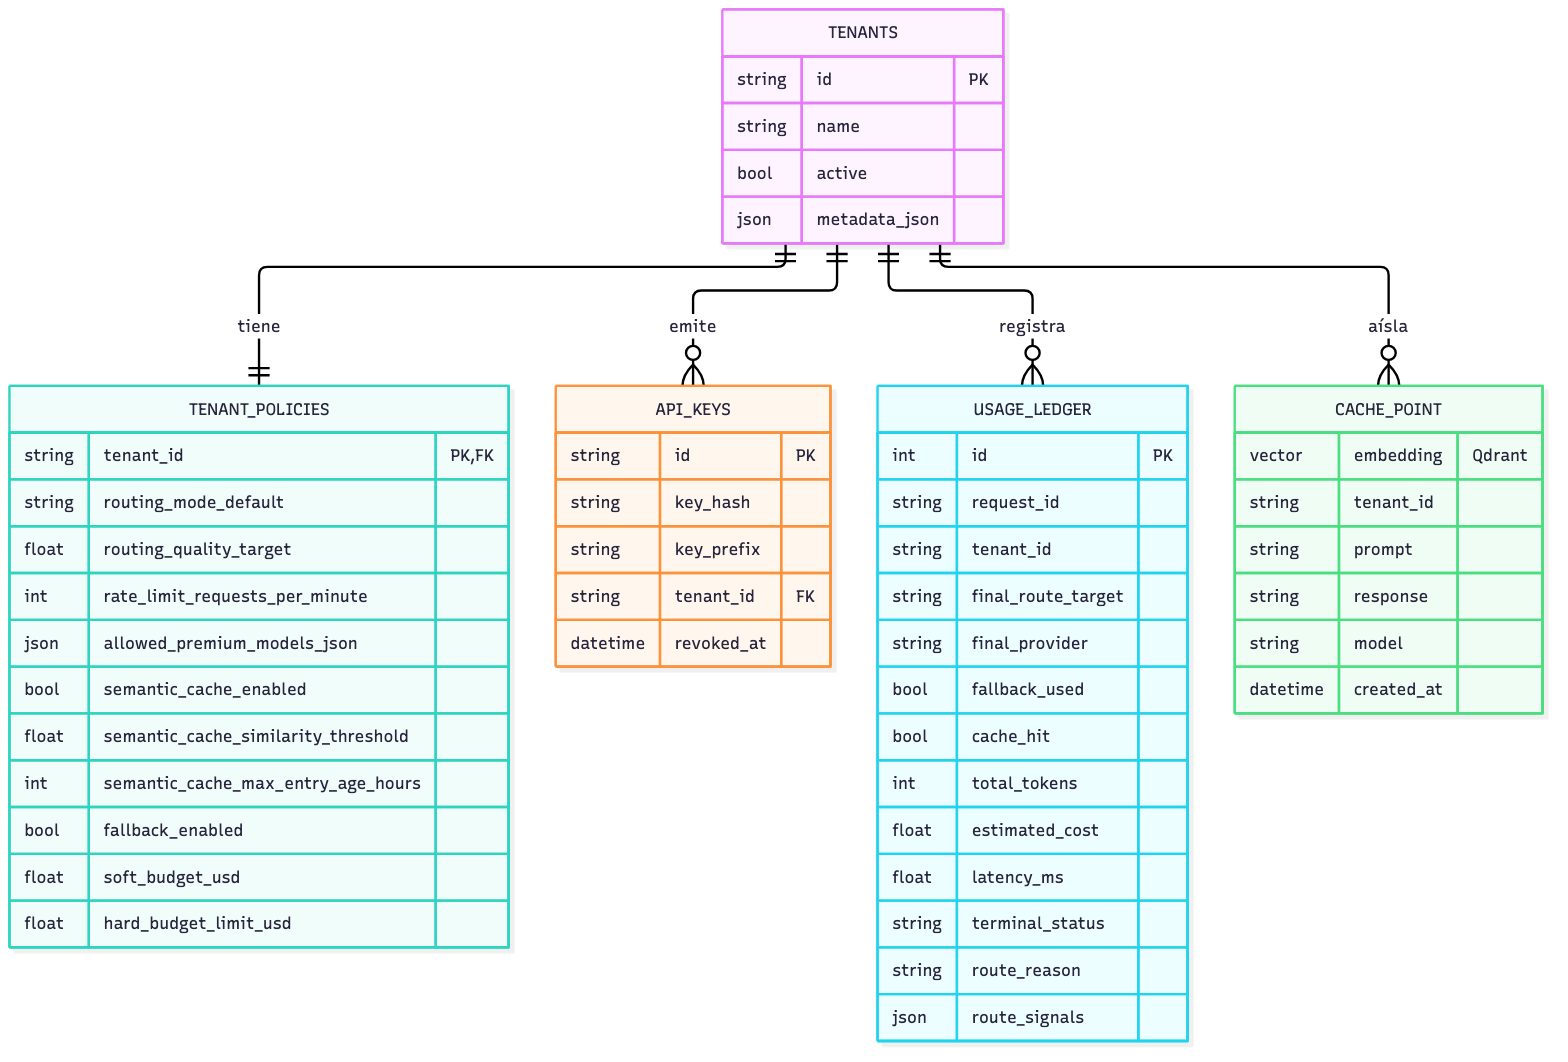
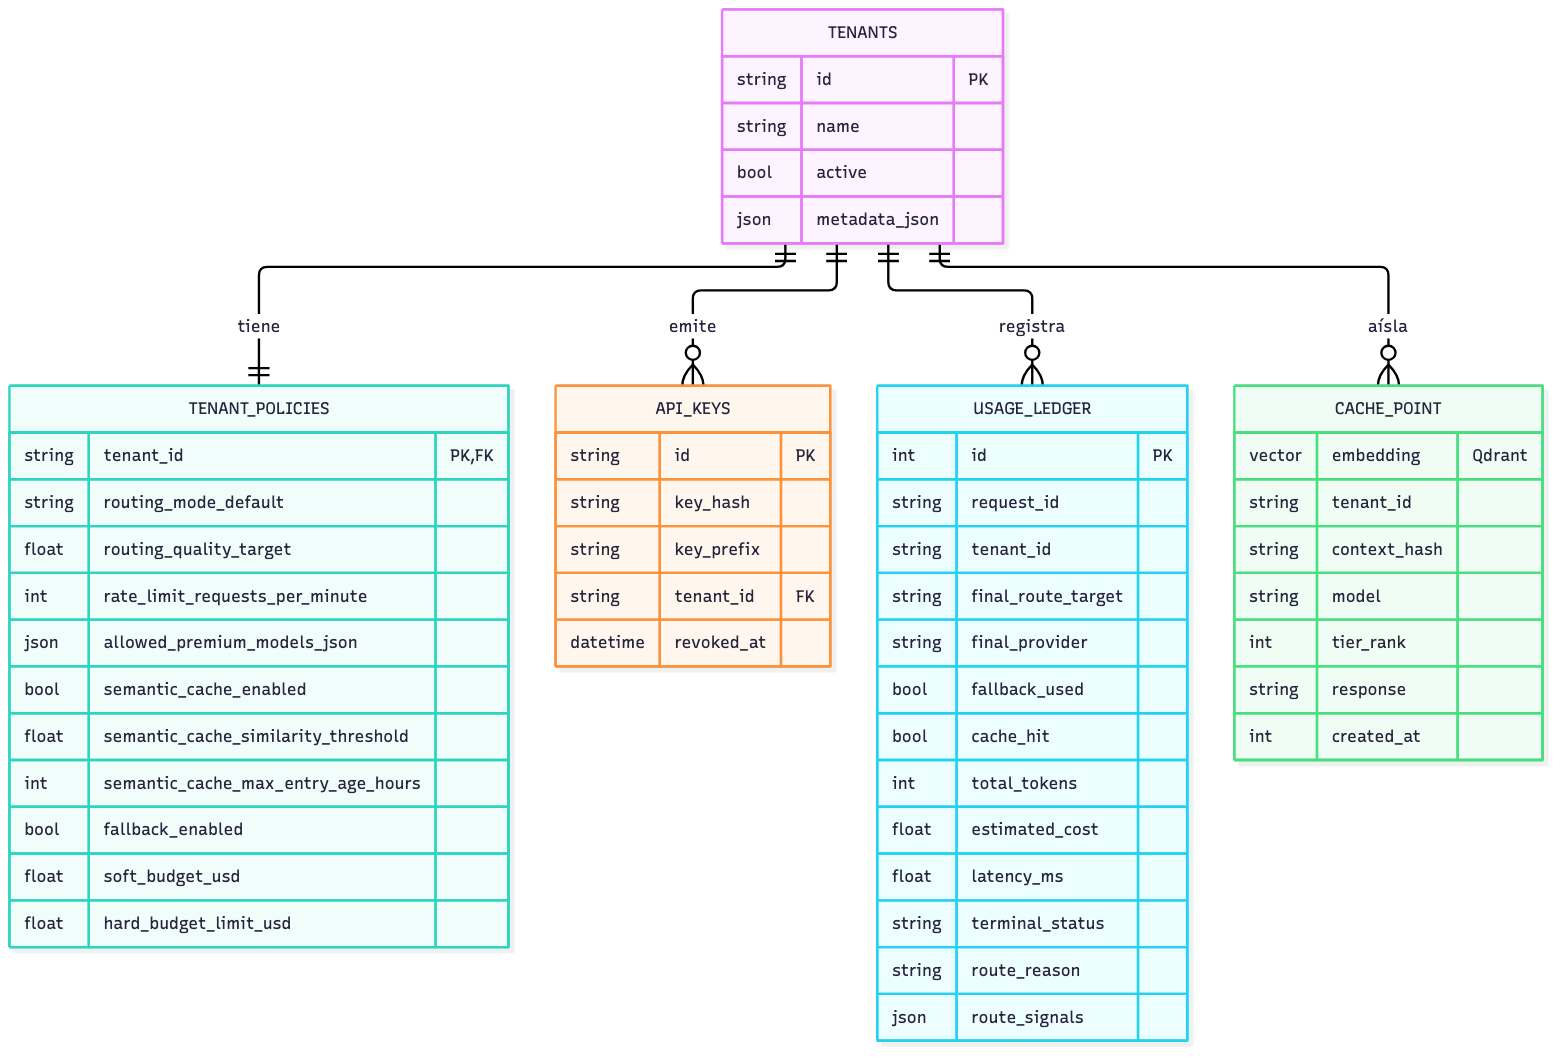
docs(tesis): bring the cache figures and filters up to date and refresh the test count
Figure 10.2's cache point drops the prompt it never stores and carries
context_hash and tier_rank; Figure 10.4 shows the lookup's tenant, freshness and
conversation filters, the tier rule, the threshold applied to the best candidate
and the spend-denied branch that looks the cache up before its 403. Both PNGs are
re-rendered with the pinned mermaid-cli.

Table 8.1 and CP-08 in Annex A add the conversation and tier filters; the
conclusions say the trace sweeps 0-40 % and only the marked rates come from the
literature; two long lines of 11.2.4 are rewrapped. The thesis README and the
Makefile say thesis-tables also rewrites, and --check also checks, the two CP-18
rows, and _render is typed for the dict that render_rows gets back. 11.2.2 now
gives the counts of the last full runs: 811 backend and 186 console tests.

Claude-Session: https://claude.ai/code/session_012JwPQqsnEebt9XQ2BG378E

diff --git a/scripts/thesis/tables.py b/scripts/thesis/tables.py
@@ -11,6 +11,7 @@ from __future__ import annotations
 import argparse
 import json
 import sys
+from collections.abc import Callable
 from pathlib import Path
 
 from scripts.metric_validation import rubric
@@ -473,7 +474,8 @@ class GeneratorError(ValueError):
     pass
 
 
-def _render(name: str, source: Path, build) -> str:
+def _render[T](name: str, source: Path, build: Callable[[], T]) -> T:
+    """``build()``, with a malformed report reported by block name and file."""
     try:
         return build()
     except FileNotFoundError:

diff --git a/docs/tfc/tesis/11-implantacion.md b/docs/tfc/tesis/11-implantacion.md
@@ -109,7 +109,7 @@ hipótesis.
 ### 11.2.2 Casos de prueba
 
 La Tabla 11.3 resume los casos de prueba. La tabla completa, con la entrada y el test o reporte
-que respalda cada caso, está en el Anexo A. La suite automática tiene 458 pruebas del backend (pytest) y 182 de la consola (Vitest), todas en verde en la última corrida (19 de octubre de 2026), más siete archivos de pruebas de extremo a extremo con Playwright.
+que respalda cada caso, está en el Anexo A. La suite automática tiene 811 pruebas del backend (pytest) y 186 de la consola (Vitest), todas en verde en la última corrida (22 de octubre de 2026), más siete archivos de pruebas de extremo a extremo con Playwright.
 
 **Tabla 11.3.** Casos de prueba (P = pasó, F = falló).
 
@@ -432,8 +432,9 @@ falso, y algunos prompts distintos del corpus tienen entre sí un coseno tan alt
 umbrales, el caché serviría la respuesta de uno para el otro. Es lo que anticipaba la sección
 8.2.4: el umbral depende del modelo de embeddings y del tipo de consulta. Además, el riesgo era
 conocido. Los pares vecinos más cercanos del corpus se habían visto antes de fijar el criterio, y
-el pre-registro advirtió que hacían probable que el replay fallara en 0.90. El criterio se mantuvo igual, porque un caché que sirve la respuesta de
-otra pregunta es justamente lo que tiene que rechazar.
+el pre-registro advirtió que hacían probable que el replay fallara en 0.90. El criterio se mantuvo
+igual, porque un caché que sirve la respuesta de otra pregunta es justamente lo que tiene que
+rechazar.
 
 La consecuencia está en el producto. Como fija la regla pre-registrada, el umbral por defecto para
 los tenants nuevos pasó de 0.90 a 0.99, el de mayor precisión mínima entre los dos conjuntos,
@@ -450,8 +451,8 @@ pre-registrado, 0.90, el ahorro adicional sería mayor (11.4 % con la tasa de LM
 la calidad bajaría a 0.980, porque cada falso acierto sirve la respuesta de otro prompt, y por la
 regla vale cero: es el costo que el criterio buscaba evitar. Estos porcentajes no se suman al
 31 %, porque se miden contra el router en la misma traza, que solo tiene prompts en español y es
-más cara de rutear que el corpus completo. Lo que sí se puede afirmar es que el caché agrega ahorro al del router, y que
-cuánto agrega depende de cuánto se repite el tráfico.
+más cara de rutear que el corpus completo. Lo que sí se puede afirmar es que el caché agrega
+ahorro al del router, y que cuánto agrega depende de cuánto se repite el tráfico.
 
 Con el objetivo en 0.90 el router ahorra bastante más (57 %, USD 1.06), pero la calidad cae a
 0.903, casi 10 puntos por debajo de la referencia, y no cumple el segundo criterio. Ese punto

diff --git a/docs/tfc/tesis/14-anexos.md b/docs/tfc/tesis/14-anexos.md
@@ -16,7 +16,7 @@ test de la suite (archivo y nombre) o un reporte versionado del repositorio.
 | CP-05 | Acuerdo jueces–humano en español | 50 pares sorteados antes de los jueces | κ ≥ 0.4 (pre-registrado) | κ 0.31 (IC −0.07–0.64) | F | `benchmarks/ground-truth/v1/validation.json` |
 | CP-06 | Rechazos confirmados por el humano | 25 rechazados + 10 aceptados, a ciegas | mayoría de rechazos confirmados | 20 de 25 (80 %, Wilson 61–91 %) | P | ídem, `negatives_es` |
 | CP-07 | Similitud coseno como métrica de calidad | 22 pares EN con nota humana | AUC > 0.5 | AUC 0.25 (IC 0.00–0.56) | F | `benchmarks/metric-validation/report.json` |
-| CP-08 | Caché aislado por tenant y antigüedad | búsqueda con tenant y TTL de la política | filtro por tenant y fecha, umbral de la política | aplicado en la consulta a Qdrant | P | `tests/test_semantic_cache_service.py::test_lookup_filters_by_tenant_and_freshness`, `::test_the_tenant_threshold_applies_to_the_best_candidate` |
+| CP-08 | Caché aislado por tenant y antigüedad | búsqueda con tenant y TTL de la política, en una conversación y un nivel | filtro por tenant, fecha, contexto de la conversación y nivel; umbral de la política | filtros aplicados en la consulta a Qdrant, umbral sobre el mejor candidato | P | `tests/test_semantic_cache_service.py::test_lookup_filters_by_tenant_and_freshness`, `::test_lookup_requires_same_context_hash`, `::test_frontier_request_never_gets_lower_tier_answer`, `::test_explicit_model_matches_only_same_model`, `::test_the_tenant_threshold_applies_to_the_best_candidate` |
 | CP-09 | Fallback local → premium | falla simulada del proveedor local | completa en el premium | completado, cabecera de fallback | P | `tests/test_service_flows.py::test_stream_completion_falls_back_to_premium_provider`, `tests/test_response_headers.py::test_response_headers_cover_local_premium_cache_and_fallback` |
 | CP-10 | Caída de Qdrant | caché inalcanzable | responde sin caché, salud degradada | responde, `/health/ready` degradado | P | `tests/test_phase10_outage_safety.py::test_semantic_cache_outage_keeps_chat_completion_serving_and_health_degraded` |
 | CP-11 | Caída de Ollama con el router activo | embedding que falla | decide con la heurística y lo registra | heurística, señal `learned_router` | P | `tests/test_learned_routing.py::test_embedding_failure_falls_back_to_the_heuristic` |

diff --git a/docs/tfc/tesis/README.md b/docs/tfc/tesis/README.md
@@ -9,10 +9,11 @@ está en `00-indice.md`, y las secciones 1, 2, 4 y 5 están juntas en `01-prelim
 
 ## Cómo se regenera
 
-- `make thesis-tables` reescribe todos los bloques `<!-- GEN:nombre -->…<!-- /GEN:nombre -->`
-  desde los reportes versionados en `benchmarks/` (no usa la red ni reentrena nada).
-  `python -m scripts.thesis.tables --check` falla si algún bloque quedó desactualizado, y la
-  suite de tests lo corre. Los bloques GEN no se editan a mano.
+- `make thesis-tables` reescribe todos los bloques `<!-- GEN:nombre -->…<!-- /GEN:nombre -->` y
+  las dos filas CP-18 (Tabla 11.3 y Tabla A.1) desde los reportes versionados en `benchmarks/`
+  (no usa la red ni reentrena nada). `python -m scripts.thesis.tables --check` falla si algún
+  bloque o alguna de esas dos filas quedó desactualizado, y la suite de tests lo corre. Ni los
+  bloques GEN ni las filas CP-18 se editan a mano.
 - `make thesis-figures` dibuja la frontera desde el reporte del router (matplotlib) y exporta las
   fuentes Mermaid de `figuras/` a PNG.
 

diff --git a/docs/tfc/tesis/08-marco-teorico.md b/docs/tfc/tesis/08-marco-teorico.md
@@ -344,7 +344,7 @@ septiembre de 2026).
 |---|---|---|---|---|
 | Despliegue self-hosted | Sí | Sí (versión open source) | No (administrado) | Sí |
 | Caché semántica | Sí | Sí | No (coincidencia exacta) | Sí |
-| Aislamiento del caché | Por clave, equipo o usuario | Por namespace | Por solicitud idéntica | Por tenant, con umbral y antigüedad de la política |
+| Aislamiento del caché | Por clave, equipo o usuario | Por namespace | Por solicitud idéntica | Por tenant, conversación y nivel, con umbral y antigüedad de la política |
 | Decisión de ruta | Reglas y balanceo configurados | Reglas condicionales sobre metadatos | Reglas | Router aprendido sobre el prompt, con objetivo de calidad por tenant |
 | Calidad de lo servido | No se mide | No se mide | No se mide | Estimada fuera de línea sobre un corpus juzgado, con jueces validados contra un lector humano (no se mide en producción) |
 | Ahorro contra una línea base reproducible | No | No | No | Sí |

diff --git a/docs/tfc/tesis/12-conclusiones.md b/docs/tfc/tesis/12-conclusiones.md
@@ -132,7 +132,8 @@ con el tráfico propio de cada organización.
 2. **El corpus no es tráfico de producción.** Son 1250 prompts de tres datasets públicos y cinco
    tareas, casi sin consultas repetidas. *Impacto:* la proporción de pedidos que el local puede
    atender depende de la mezcla de tareas, y el aporte del caché solo se pudo estimar sobre trazas
-   sintéticas, con tasas de repetición tomadas de otros contextos. *Superación:* reentrenar y
+   sintéticas que recorren tasas de repetición de 0 a 40 %; solo las que se marcan en la sección
+   11.2.3 vienen de la literatura, que las midió sobre otro tráfico. *Superación:* reentrenar y
    reevaluar con una muestra juzgada del tráfico real de un tenant, que diga también cuánto se
    repite ese tráfico.
 3. **El modelo local es lento en el hardware de la evaluación.** La mediana es de 21.3 s por
